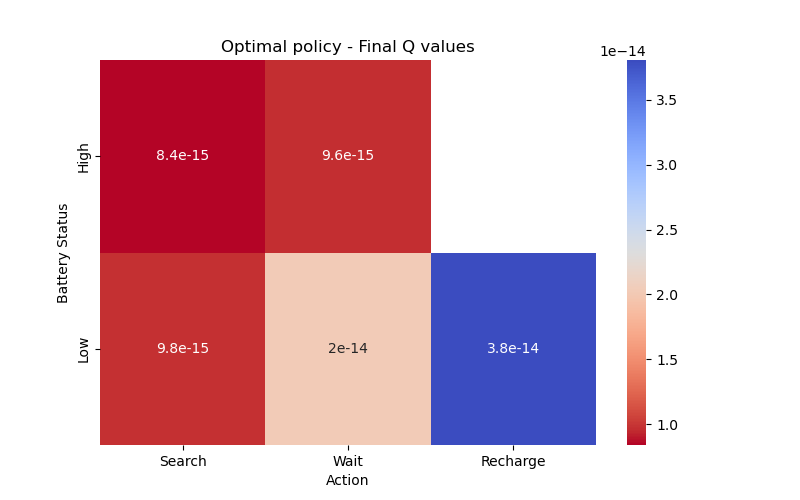
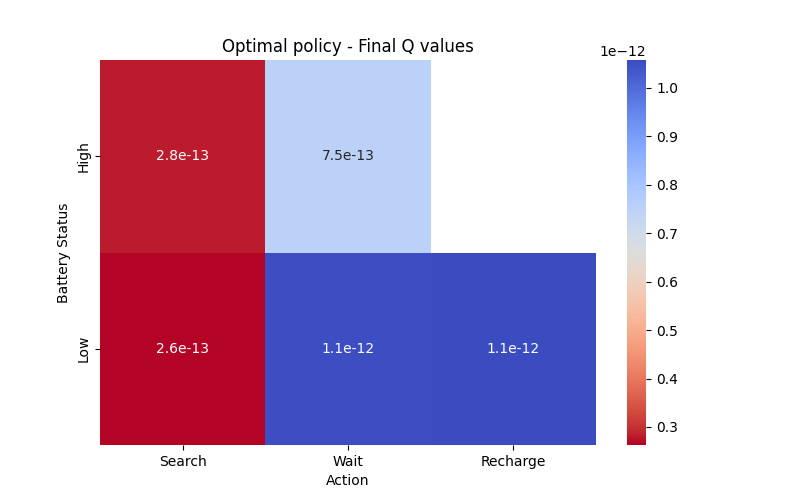
fixed robot 2

diff --git a/src/robot.py b/src/robot.py
@@ -9,7 +9,7 @@ class Robot:
     at the end of each epoch to update its policy estimations.
     """
 
-    def _init_(self, alpha=0.1, gamma=0.9, epsilon=0.1) -> None:
+    def __init__(self, alpha=0.1, gamma=0.9, epsilon=0.1) -> None:
         """Initializes the robot agent."""
         self.learning_rate = alpha      # Taxa de aprendizado (alpha)
         self.initial_gamma = gamma
